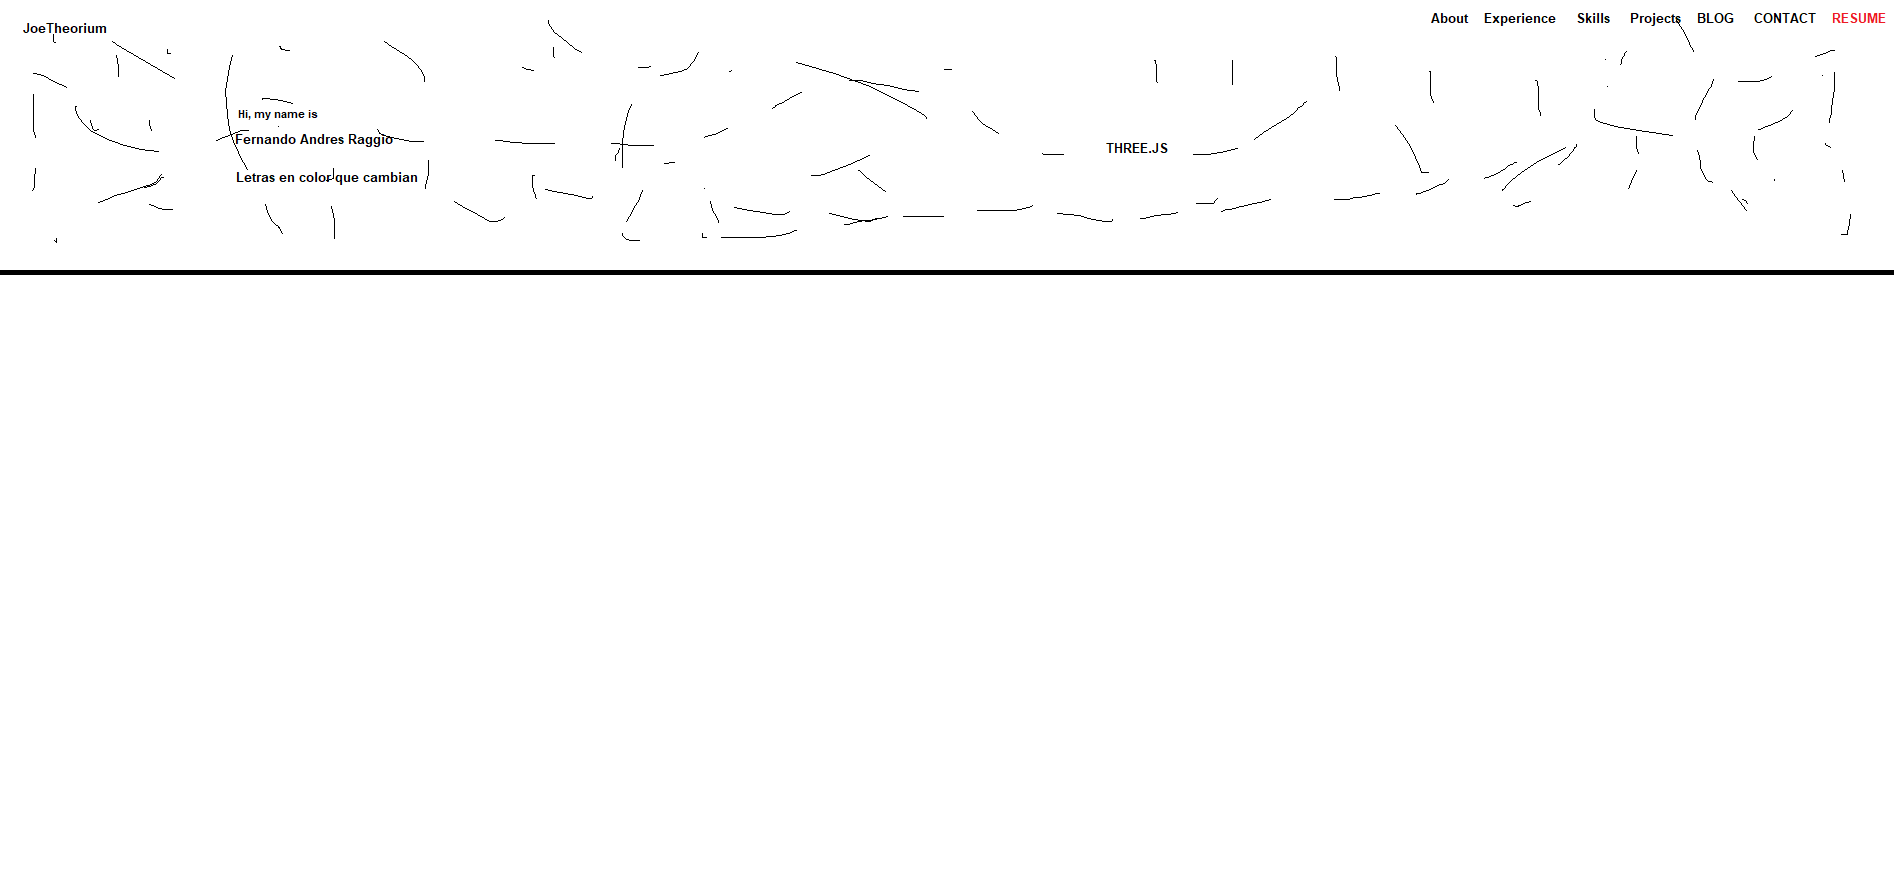
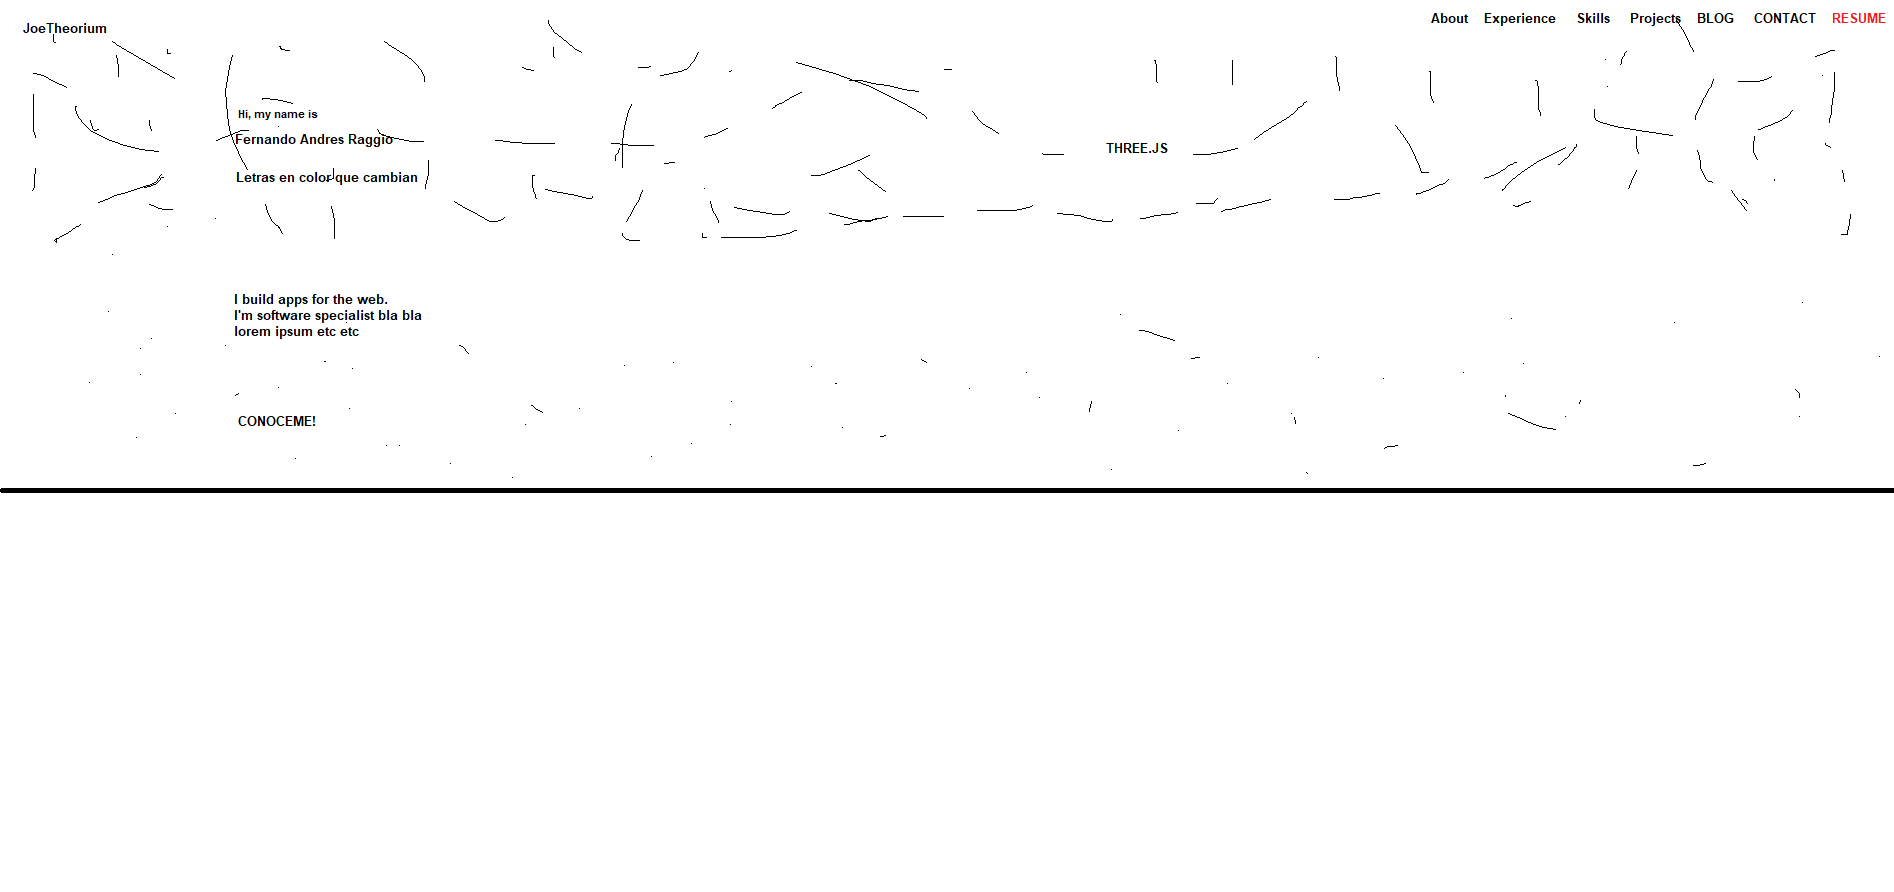
Create hero section

Changed region(s): [[0.0, 0.3027, 1.0, 0.3935], [0.0, 0.5448, 1.0, 0.5751], [0.1246, 0.454, 0.1558, 0.4843]]

diff --git a/src/components/sections/Hero.tsx b/src/components/sections/Hero.tsx
@@ -1,0 +1,10 @@
+import React, { useState, useEffect } from 'react';
+import { CSSTransition, TransitionGroup } from 'react-transition-group';
+
+const Hero = () => {
+  return (
+    <div>Hero</div>
+  )
+}
+
+export default Hero

diff --git a/src/components/sections/About.tsx b/src/components/sections/About.tsx
@@ -1,7 +1,9 @@
 import React from 'react'
 
-export const About = () => {
+const About = () => {
   return (
     <div>About</div>
   )
 }
+
+export default About;
